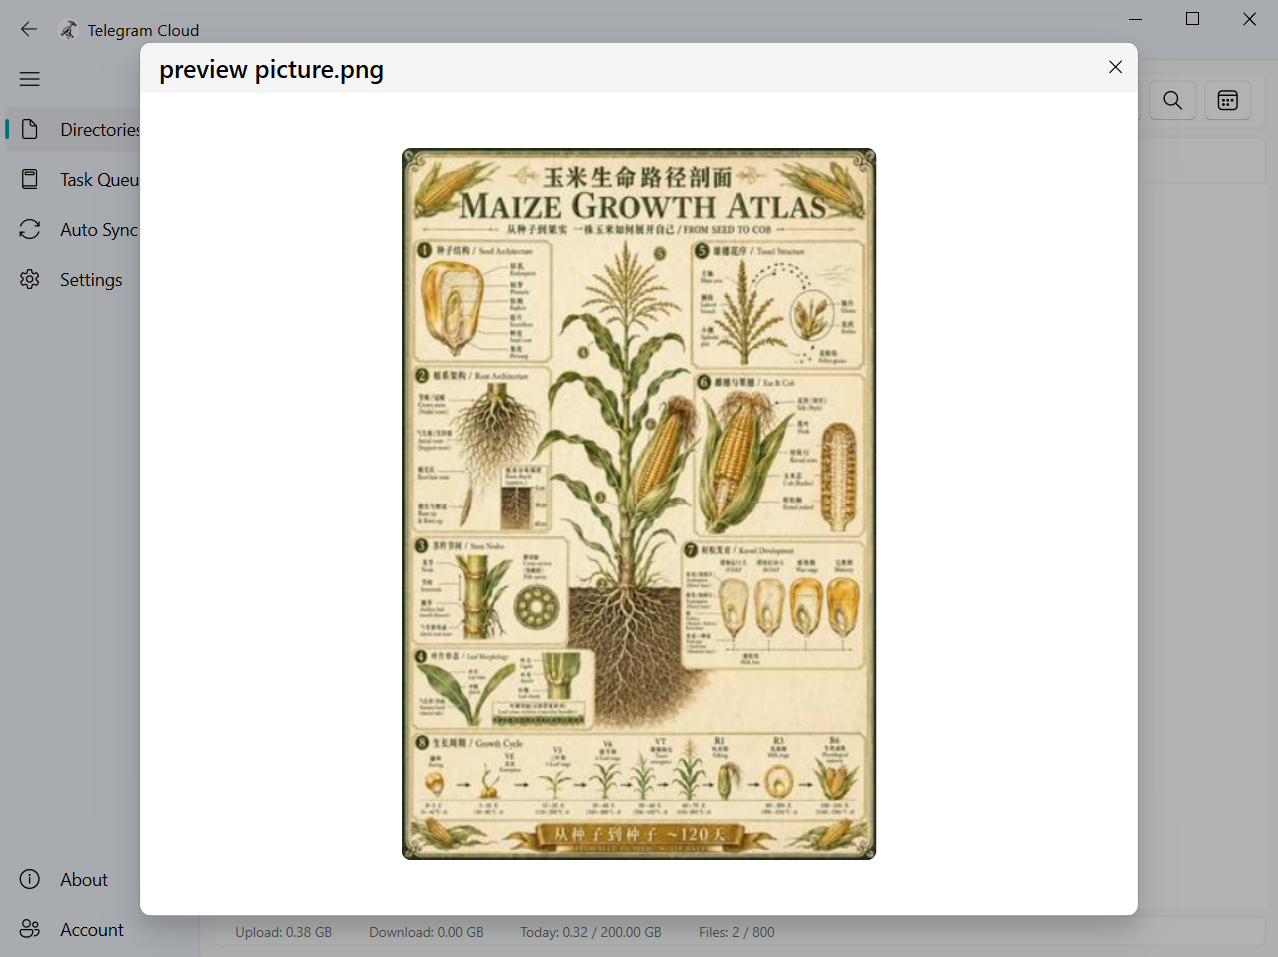
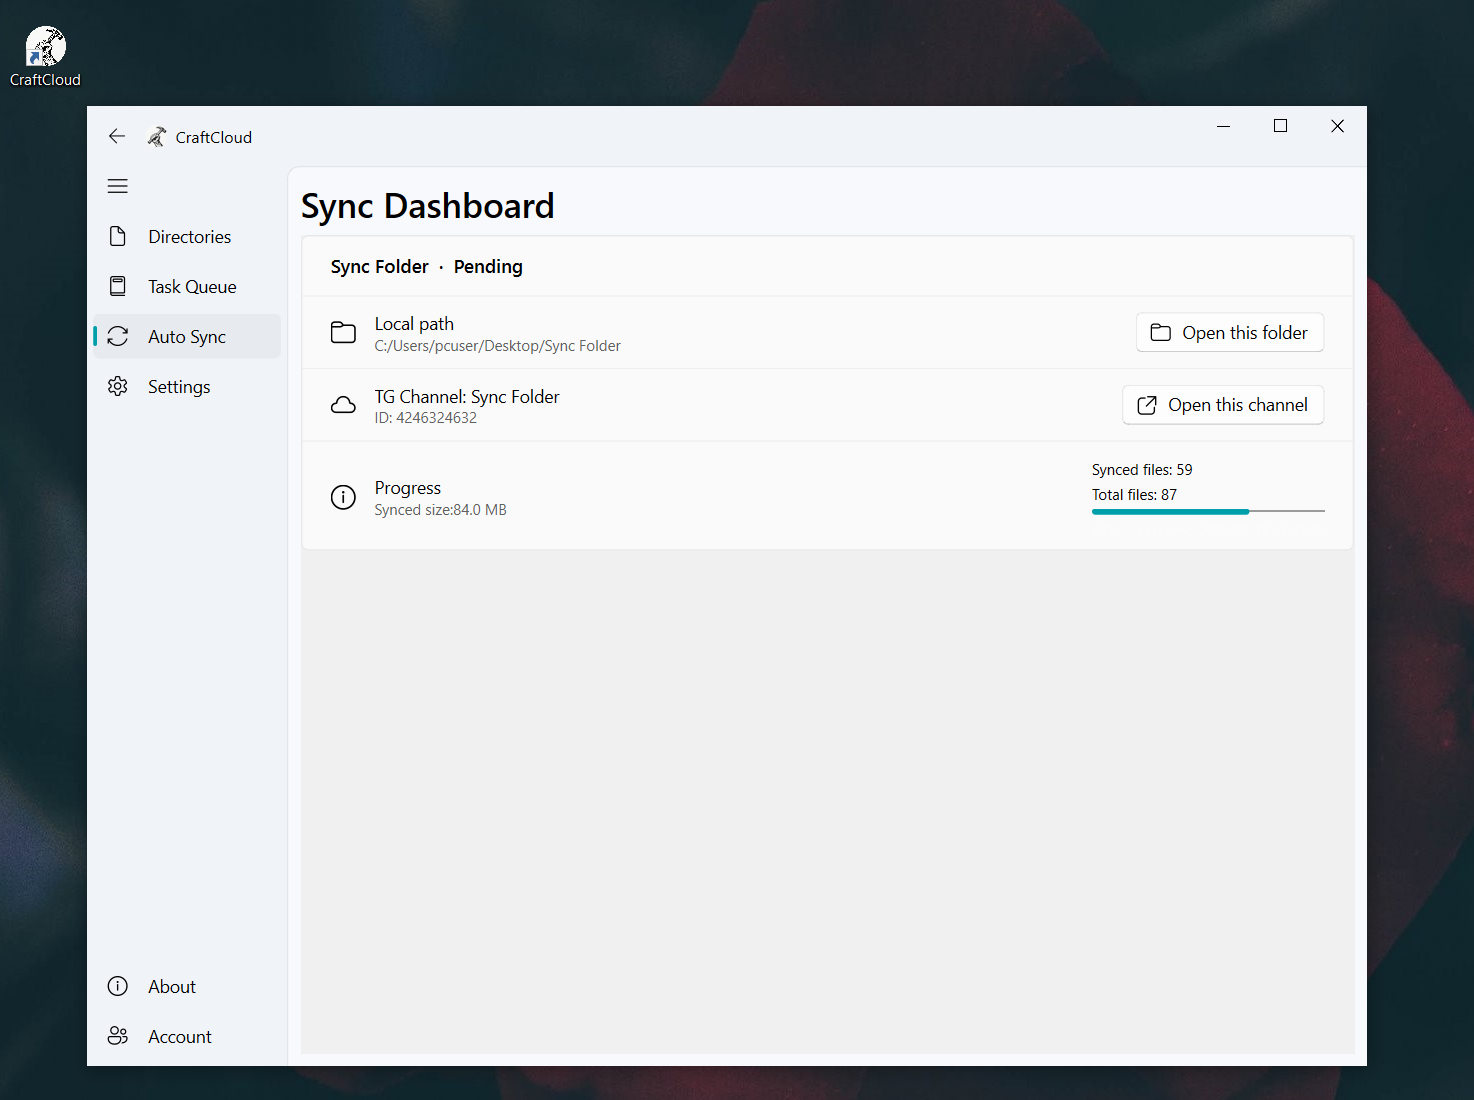
v6.0

diff --git a/docs/index.html b/docs/index.html
@@ -1020,6 +1020,31 @@
             </div>
         </div>
 
+        <!-- ==================== tutorial ==================== -->
+        <div class="screenshots">
+            <h2 class="section-title" data-i18n="screenshots_title">tutorial</h2>
+            <div class="screenshot-grid">
+                <div class="screenshot-card">
+                    <div class="img-box">
+                        <img src="./tutorial/login_tutorial.gif" alt="Main interface - file browsing and directory tree" data-i18n-alt="screenshot1_alt">
+                    </div>
+                    <span class="caption" data-i18n="screenshot1_caption">Main interface - file browsing & directory tree</span>
+                </div>
+                <div class="screenshot-card">
+                    <div class="img-box">
+                        <img src="./tutorial/operate_tutorial.gif" alt="Auto-sync configuration interface" data-i18n-alt="screenshot2_alt">
+                    </div>
+                    <span class="caption" data-i18n="screenshot2_caption">Auto-sync configuration interface</span>
+                </div>
+                <div class="screenshot-card">
+                    <div class="img-box">
+                        <img src="./tutorial/sync_tutorial.gif" alt="Image/video online preview" data-i18n-alt="screenshot3_alt">
+                    </div>
+                    <span class="caption" data-i18n="screenshot3_caption">Image / Video online preview</span>
+                </div>
+            </div>
+        </div>
+
         <!-- ==================== SETUP GUIDE (static) ==================== -->
         <div class="setup-guide" id="static-guide">
             <h2 class="section-title" data-i18n="guide_title">📋 First Time Setup: Get Telegram API Credentials</h2>

diff --git a/docs/readme.md b/docs/readme.md
@@ -17,6 +17,11 @@
     <td><img width="300" src="https://cdn.jsdelivr.net/gh/ydtg1993/craft_cloud@main/docs/pics/preview2.png"/></td>
     <td><img width="300" src="https://cdn.jsdelivr.net/gh/ydtg1993/craft_cloud@main/docs/pics/preview3.png"/></td>
   </tr>
+  <tr>
+    <td><img width="300" src="https://cdn.jsdelivr.net/gh/ydtg1993/craft_cloud@main/docs/pics/preview4.png"/></td>
+    <td><img width="300" src="https://cdn.jsdelivr.net/gh/ydtg1993/craft_cloud@main/docs/pics/preview5.png"/></td>
+    <td><img width="300" src="https://cdn.jsdelivr.net/gh/ydtg1993/craft_cloud@main/docs/pics/preview6.png"/></td>
+  </tr>
 </table>
 
 ## Features